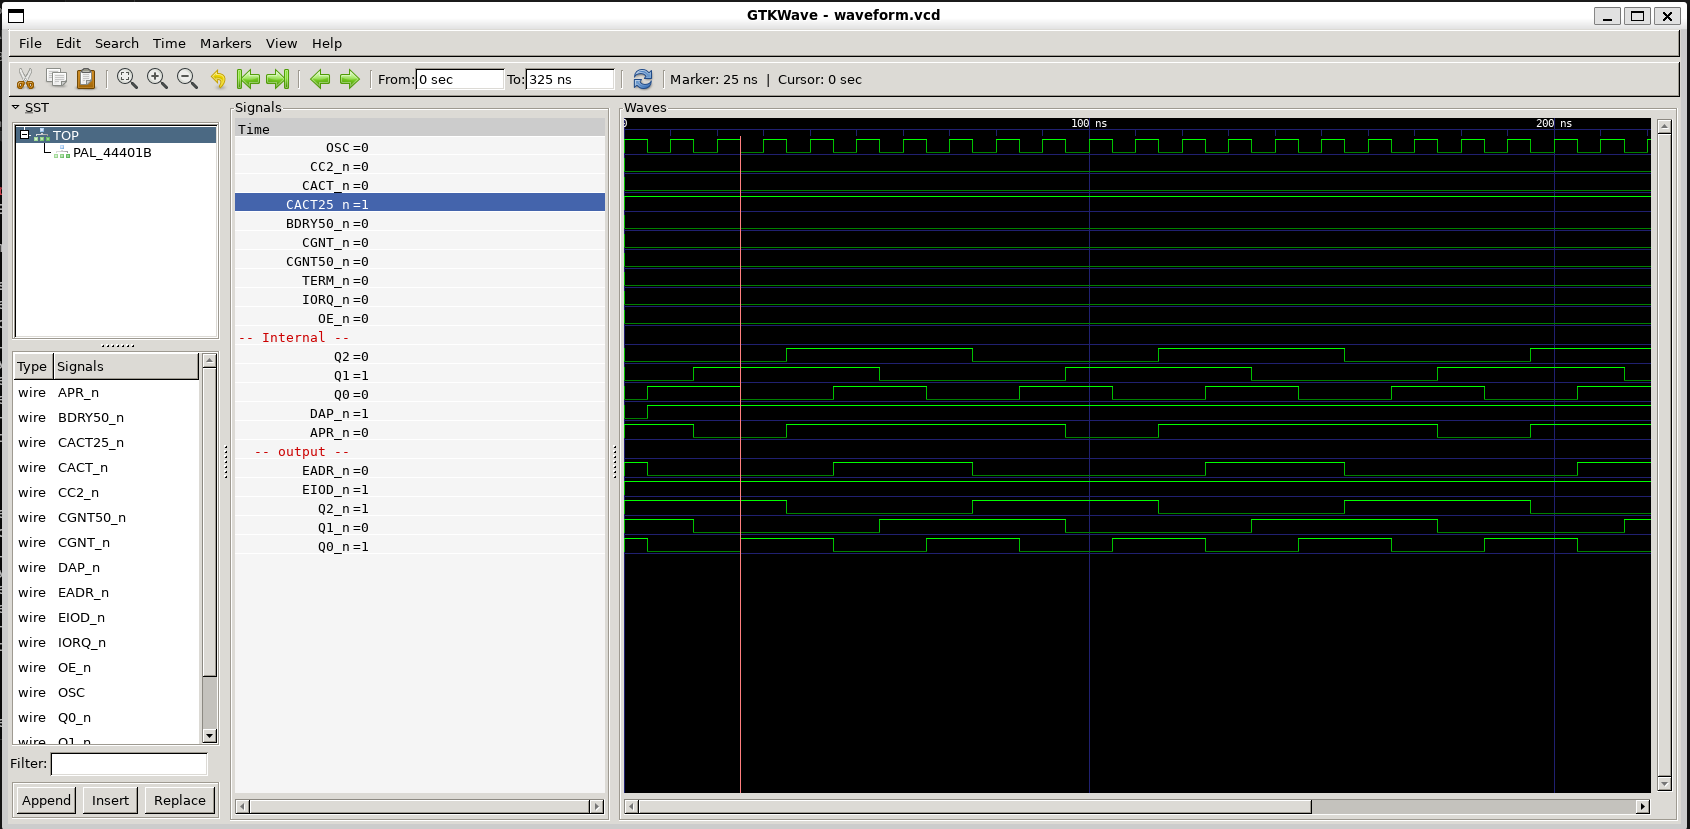
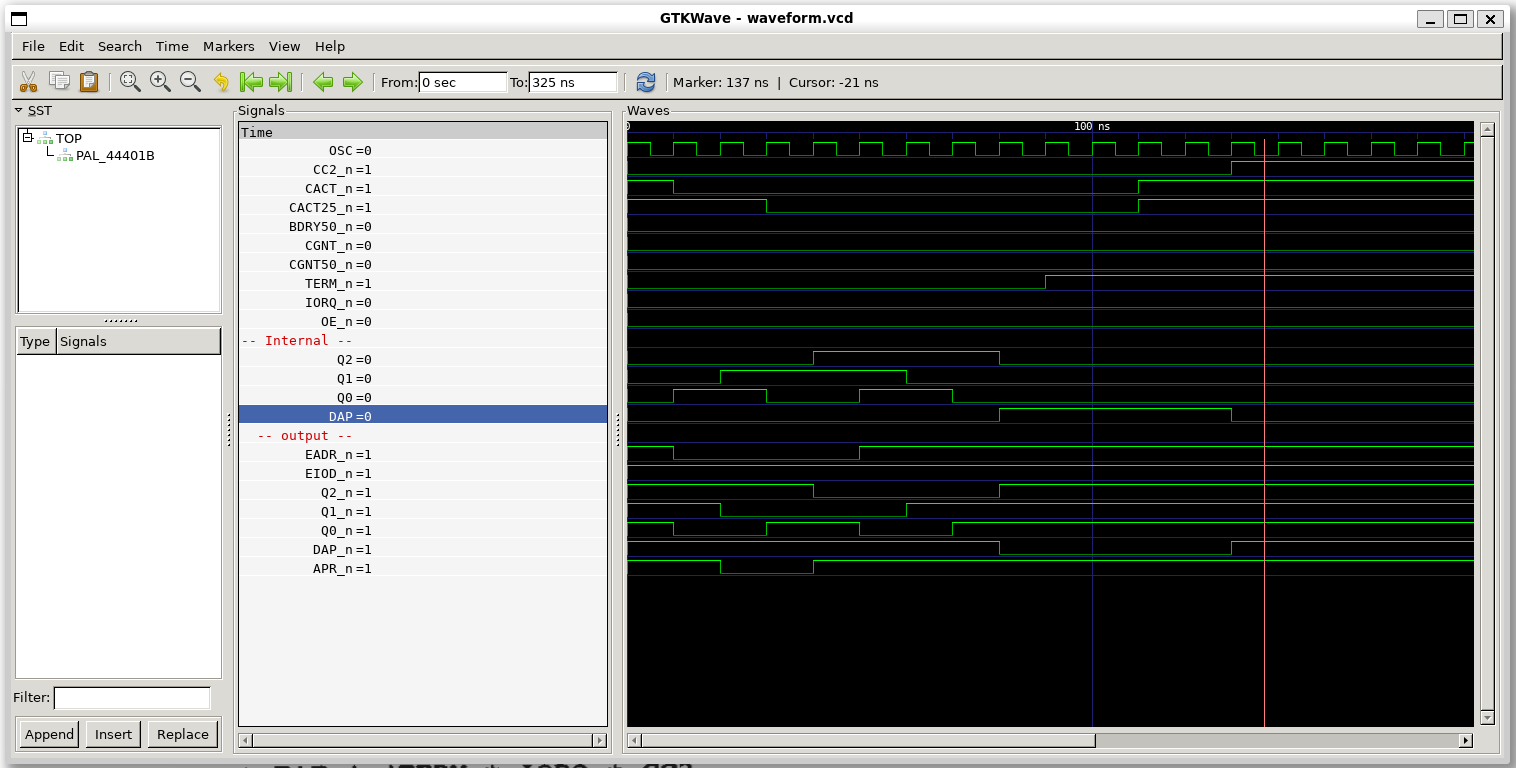
Fixed "circular logic" in PAL 44401B signal DAP

Changed region(s): [[0.0, 0.0, 1.0, 1.0]]

diff --git a/Verilog/PAL/44401B/sim/test_pal.cpp b/Verilog/PAL/44401B/sim/test_pal.cpp
@@ -57,6 +57,9 @@ int main(int argc, char **argv)
 
     int errCnt = 0;
 
+      top->CACT_n = true;
+      top->CACT25_n = true;
+
     // Iterate through each test case
     //for (const auto& test : testCases) {
     for (int i=0;i<32;i++)
@@ -72,12 +75,35 @@ int main(int argc, char **argv)
 
         top->OE_n  = false;
 
-        top->eval();
+        
         top->OSC = 1;
 
-        top->CACT_n = false;
-        top->CACT25_n = true;
+      
+       if (i==1)
+            top->CACT_n = false;
 
+        if (i==3)
+            top->CACT25_n = false;
+
+        if (i==9)
+        {
+            top-> TERM_n = true;
+            top->IORQ_n = false;
+            top->CC2_n = false;
+        }
+
+        if (i==11)
+        {
+            top->CACT_n = true;
+            top->CACT25_n = true;
+        }
+
+
+          if (i==13)
+           // top->IORQ_n = true;
+            top->CC2_n = true;
+
+        top->eval();
 /*
         top->CC0_n = (i & 1<<0) == 0;
         top->CC1_n = (i & 1<<1) == 0;
@@ -92,8 +118,9 @@ int main(int argc, char **argv)
 
         // /OE (Output enable)
         //top->OE_n  = true;
-        top->eval();
         top->OSC = 0;        
+        top->eval();
+        
 
 #ifdef DO_TRACE        
         m_trace->dump(sim_time);

diff --git a/DesignDocuments/PAL-Code/Readme.md b/DesignDocuments/PAL-Code/Readme.md
@@ -49,7 +49,7 @@ Standard is 4Mb memory configured contiguosly from address 0.
 |21G     | 24          |7856    | 16L8-12| 12ns      | 513035   | 44306A   | MMUCTL    | [A IMG](IMG/44306A.png)     | [A PDS](SRC/44306A.txt)      | [Converted.](../../Verilog/PAL/44306A/PAL_44306A.v) Needs more test |
 |13D     | 36          |8345    | 16L8-12| 12ns      | 513085   | 44307C   | CYCLK     | [C IMG](IMG/44307C.png)     | [C PDS](SRC/44307C.txt)      | [Converted.](../../Verilog/PAL/44307C/PAL_44307C.v) Needs more test |
 |3F      | 48          |46FA    | 16L8-12| 12ns      | 513085   | 44310D   | LBDIF     | [D IMG](IMG/44310D.png)     | [D PDS](SRC/44310D.txt)      | [Almost converted. Need to fix self-reference signals.](../../Verilog/PAL/44310D/PAL_44310D.v) |
-|5D      | 6           |59AF    | 16R4D  | 10ns      | 513060   | 44401B   | BTIM      | [B IMG](IMG/44401B.png)     | [B PDS](SRC/44401B.txt)      | [Almost converted. Need to fix self-reference signals.](../../Verilog/PAL/44401B/PAL_44401B.v) |
+|5D      | 6           |59AF    | 16R4D  | 10ns      | 513060   | 44401B   | BTIM      | [B IMG](IMG/44401B.png)     | [B PDS](SRC/44401B.txt)      | [Converted.](../../Verilog/PAL/44401B/PAL_44401B.v). Needs more test |
 |18F     | 25          |        | 16R4D  | 10ns      | 513060   | 44402D   | UBITS     | [D IMG](IMG/44402D.png)     | [D PDS](SRC/44402D.txt)  
 |14D     | 36          |        | 16R4D  | 10ns      | 513060   | 44403D   | CYIN0     | [C IMG](IMG/44403C.png) / [D IMG](IMG/44403D.png)    | [C PDS](SRC/44403C.txt) / Missing D | [Converted C.](../../Verilog/PAL/44403C/PAL_44403C.v) Needs more test |
 |15D     | 36          |        | 16R4D  | 10ns      | 513060   | 44404D   | CYIN1 NEW | [C IMG](IMG/44404C.png) / Missing D    | [C PDS](SRC/44404C.txt) / Missing D
